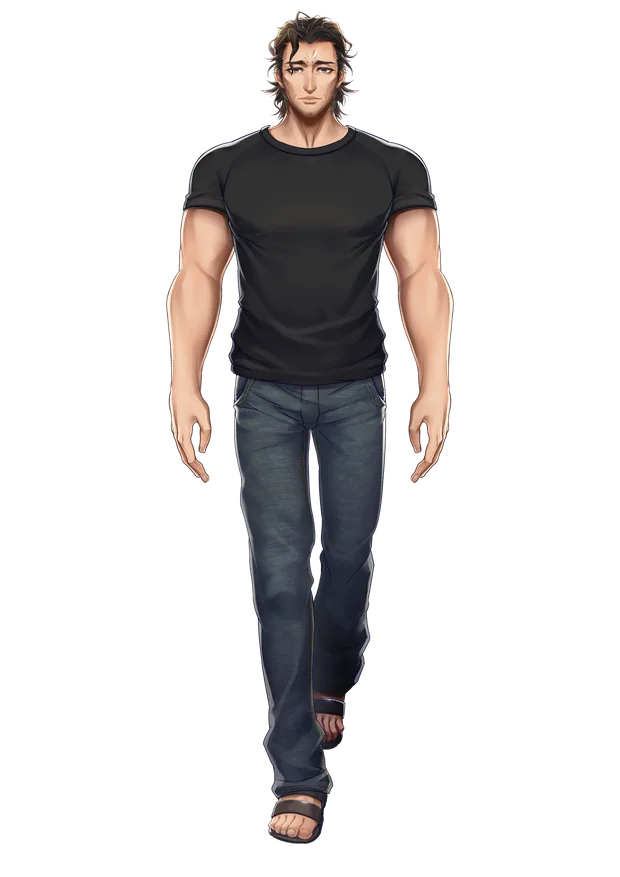
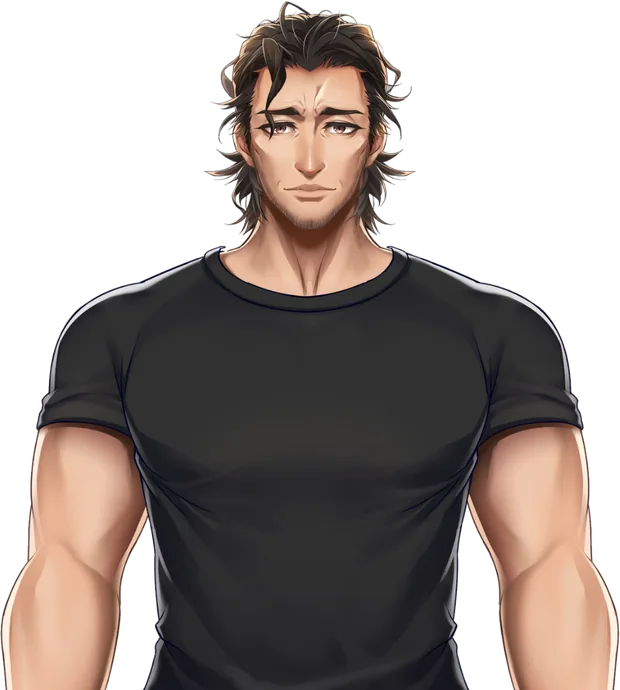
0906additional

diff --git a/site/public/assets/RENAME.md b/site/public/assets/RENAME.md
@@ -2,9 +2,9 @@
 
 `tools/import-assets.mjs` が自動生成しています。手で編集しないでください。
 
-- 生成日時: 2026/9/5 22:05:31
+- 生成日時: 2026/9/6 8:14:23
 - 元素材フォルダ: `素材フォルダ追加含む`
-- 合計: 61 ファイル / 3996 KB
+- 合計: 61 ファイル / 4004 KB
 
 元素材のファイル名は日本語や記号を含み、そのままでは URL に使えないため、
 半角英数のファイル名へ変換したうえで `site/public/assets/` 配下に配置しています。
@@ -47,7 +47,7 @@
 
 | 元ファイル（素材フォルダ内） | サイト上のパス | 用途 | 書き出しサイズ |
 | --- | --- | --- | --- |
-| `企業協賛/スリーアール株式会社様/01_ロゴ/AGRelux_logo_黒_透過.png` | `public/assets/sponsors/3r.webp` | AGRelux ロゴ | 560×560 / 6 KB |
+| `企業協賛/スリーアール株式会社様/01_ロゴ/AGRelux_logo_黒_透過.png` | `public/assets/sponsors/3r.webp` | AGRelux ロゴ | 760×82 / 10 KB |
 | `企業協賛/スリーアール株式会社様/03_ZONIQ/ZONIQ_logo_カラー.png` | `public/assets/sponsors/zoniq.webp` | ZONIQ ロゴ | 400×55 / 9 KB |
 | `企業協賛/木村酒造様/株式会社木村酒造様ロゴ.jpe` | `public/assets/sponsors/kimura-shuzo.webp` | 株式会社木村酒造様 ロゴ | 560×560 / 67 KB |
 | `企業協賛/合同会社ウザク式様/-logo.png` | `public/assets/sponsors/uzakushiki.webp` | ウザク式様 ロゴ | 560×373 / 4 KB |
@@ -69,7 +69,7 @@
 | 元ファイル（素材フォルダ内） | サイト上のパス | 用途 | 書き出しサイズ |
 | --- | --- | --- | --- |
 | `0830追加分/prize_0830.png` | `public/assets/prizes/yamamoto-rice.webp` | 山本の米 新米10kg 賞品画像 | 1200×675 / 92 KB |
-| `エキシビジョンマッチ/山本の米/山本さん立ち絵.png` | `public/assets/exhibition/yamamoto-san.webp` | 山本さん 立ち絵 | 620×877 / 39 KB |
+| `0906追加分/yamamoto.png` | `public/assets/exhibition/yamamoto-san.webp` | 山本様 立ち絵 | 620×690 / 43 KB |
 
 ## 協賛紹介画像（賞品カード）
 
